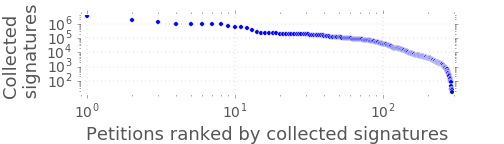
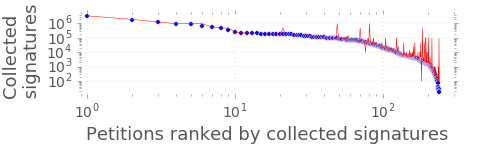
figure update

diff --git a/sig-alternate.tex b/sig-alternate.tex
@@ -34,136 +34,11 @@
 \renewcommand{\baselinestretch}{1.0}
 \setlength{\emergencystretch}{50pt}
 \setcounter{secnumdepth}{2}
-
-
-
-% BEGIN OF STYLE DEFINITION FOR sparkline:
-\makeatletter
-\usetikzlibrary{positioning}
-\colorlet{sparkcolor}{red!80!black}
-\colorlet{minmaxcolor}{blue!80!black}
-\pgfplotsset{
-    every spark line/.style={
-        hide axis,
-        clip=false,
-        bar width=2pt,
-        cycle list={blue,mark=none\\},
-        height=0.8\baselineskip,
-        anchor=south west,
-        width=5\baselineskip,
-        scale only axis,
-        filter point/.code={%
-            \xdef\sparklinex{\pgfkeysvalueof{/data point/x}}%
-            \xdef\sparkliney{\pgfkeysvalueof{/data point/y}}%
-            \pgfplotscoordmath{default}{parsenumber}{\sparklinex}%
-            \let\sparklinex@=\pgfmathresult
-            \pgfplotscoordmath{default}{parsenumber}{\sparkliney}%
-            \let\sparkliney@=\pgfmathresult
-            \ifnum\coordindex=0
-                \global\let\sparklineSTARTx\sparklinex
-                \global\let\sparklineSTARTy\sparkliney
-                \global\let\sparklineMINx\sparklinex
-                \global\let\sparklineMINy\sparkliney
-                \global\let\sparklineMINy@\sparkliney@
-                %
-                \global\let\sparklineMAXx\sparklinex
-                \global\let\sparklineMAXy\sparkliney
-                \global\let\sparklineMAXy@\sparkliney@
-            \else
-                \pgfplotscoordmath{default}{if less than}{\sparkliney@}{\sparklineMINy@}{%
-                    \global\let\sparklineMINx\sparklinex
-                    \global\let\sparklineMINy\sparkliney
-                    \global\let\sparklineMINy@\sparkliney@
-                }{}%
-                \pgfplotscoordmath{default}{if less than}{\sparklineMAXy@}{\sparkliney@}{%
-                    \global\let\sparklineMAXx\sparklinex
-                    \global\let\sparklineMAXy\sparkliney
-                    \global\let\sparklineMAXy@\sparkliney@
-                }{}%
-            \fi
-            \global\let\sparklineENDx\sparklinex
-            \global\let\sparklineENDy\sparkliney
-        },
-        extra description/.code={%
-            \node[begin node description]  {\pgfkeysvalueof{/pgfplots/begin node text}};
-            \node[end node description]    {\pgfkeysvalueof{/pgfplots/end node text}};
-        },
-    },
-    spark std max/.initial=,
-    spark std min/.initial=,
-    /tikz/spark std region/.style={fill=gray!10},
-    begin node text/.initial=\pgfmathprintnumber{\sparklineSTARTy},
-    end node text/.initial=  \pgfmathprintnumber{\sparklineENDy},
-    /tikz/begin node description/.style={
-        text width=3em,align=right,
-        base left,sparkcolor,
-        /pgf/number format/fixed,
-        /pgf/number format/fixed zerofill,
-        /pgf/number format/showpos,
-        at={(current axis.south west)},
-    },
-    /tikz/end node description/.style={
-        base right,sparkcolor,
-        /pgf/number format/fixed,
-        /pgf/number format/fixed zerofill,
-        /pgf/number format/showpos,
-        at={(current axis.south east)},
-    },
-    sparkline nodes/.initial={%
-        node[begin node] at (axis cs:\sparklineSTARTx,\sparklineSTARTy) {}
-        node[end node]   at (axis cs:\sparklineENDx,\sparklineENDy) {}
-        node[min node]   at (axis cs:\sparklineMINx,\sparklineMINy) {}
-        node[max node]   at (axis cs:\sparklineMAXx,\sparklineMAXy) {}
-    },
-    /tikz/spark marker/.style={
-        circle,
-        inner sep=1pt,
-    },
-    /tikz/begin node/.style={
-        spark marker,
-        fill=sparkcolor,
-    },
-    /tikz/end node/.style={
-        spark marker,
-        fill=sparkcolor,
-    },
-    /tikz/min node/.style={
-        spark marker,
-        fill=minmaxcolor,
-    },
-    /tikz/max node/.style={
-        spark marker,
-        fill=minmaxcolor,
-    },
-}
-
-\def\sparkline{\pgfutil@ifnextchar[{\sparkline@opt}{\sparkline@opt[]}}%
-\long\def\sparkline@opt[#1]#2;{%
-    \begin{tikzpicture}[baseline]
-    \begin{axis}[every spark line,#1]
-        \begin{scope}[yshift=-0.2\baselineskip]
-        \pgfplotsextra{
-            % \pgfkeysgetvalue{/pgfplots/spark std min}\sparkstdmin
-            % \pgfkeysgetvalue{/pgfplots/spark std max}\sparkstdmax
-            \ifx\sparkstdmin\empty
-            \else
-                \ifx\sparkstdmax\empty
-                \else
-                    \fill[spark std region]
-                         (axis cs:\sparklineSTARTx,\sparkstdmax) rectangle (axis cs:\sparklineENDx,\sparkstdmin);
-                \fi
-            \fi
-        }
-        \addplot #2 \pgfkeysvalueof{/pgfplots/sparkline nodes};
-        \end{scope}
-    \end{axis}
-    \end{tikzpicture}%
-}
-
-\makeatother
-% END OF STYLE DEFINITIONS
-
-
+\renewcommand{\sparklineheight}{2} 
+\renewcommand{\sparklinethickness}{0.5pt}
+\renewcommand{\sparkspikewidth}{1.2pt} 
+\definecolor{sparkspikecolor}{named}{cyan}
+\definecolor{sparklinecolor}{named}{black}
 
 \begin{document}
 
@@ -198,7 +73,11 @@
 %        \affaddr{Lausanne---Switzerland}\\
 %        \email{iuliia.proskurnia@epfl.ch}
 % 2nd. author
- % I prefer to be last, hope that's ok!
+% \alignauthor Karl Aberer\\
+% 	     \affaddr{\'{E}cole Polytechnique F\'{e}d\'{e}rale de Lausanne}\\
+%        \affaddr{Lausanne---Switzerland}\\
+%        \email{karl.aberer@epfl.ch}
+% 3rd. author
 % \alignauthor Philippe Cudr\'{e}-Mauroux\\
 % 	    \affaddr{University of Fribourg}\\
 %        \affaddr{Fribourg---Switzerland}\\

diff --git a/sections/petition_analysis.tex b/sections/petition_analysis.tex
@@ -39,7 +39,7 @@ Users 				& 626		& 472		& 1098		\\
 \begin{figure}
 \centering
 \includegraphics[scale=0.44]{figures/petitionsVSrank.png}
-\caption{Zipfian for the final number of signatures received by each petition. The change in the slope of the Zipf's law happens at 1K signatures, i.e., a threshold for a petition to make an impact.}
+\caption{Zipfian for the final number of signatures received by each petition. Red line indicates required number of signatures. The change in the slope of the Zipf's law happens at 1K signatures, i.e., a threshold for a petition to make an impact.}
 \label{fig:signatures_vs_rank}
 \end{figure}
 
@@ -72,7 +72,7 @@ Unexpectedly, we have observed that the higher the signature goal, $S(p)$, of a 
 % TODO: Add some motivation, examples etc...
 Moreover, the higher the average number of followers a user posting about a give campaign has, $T_3(p)$, the less likely the petition is to attain the required number of signatures.
 On the contrary, the higher the average number of followers a user posting the petition URL without campaign hashtags has, $T_5(p)$, the more likely the petition is to attain the required number of signatures.
-It should be noted, that on average the number of followers is 10x higher for users that do not use campaign hashtag together with petition URL compared to campaign activists.
+It should be noted, that the average number of followers is 10x higher for users outside of the campaign compared to the campaign activists.
 
 \subsection{Lessons Learned}
 \label{sec:discussion}
